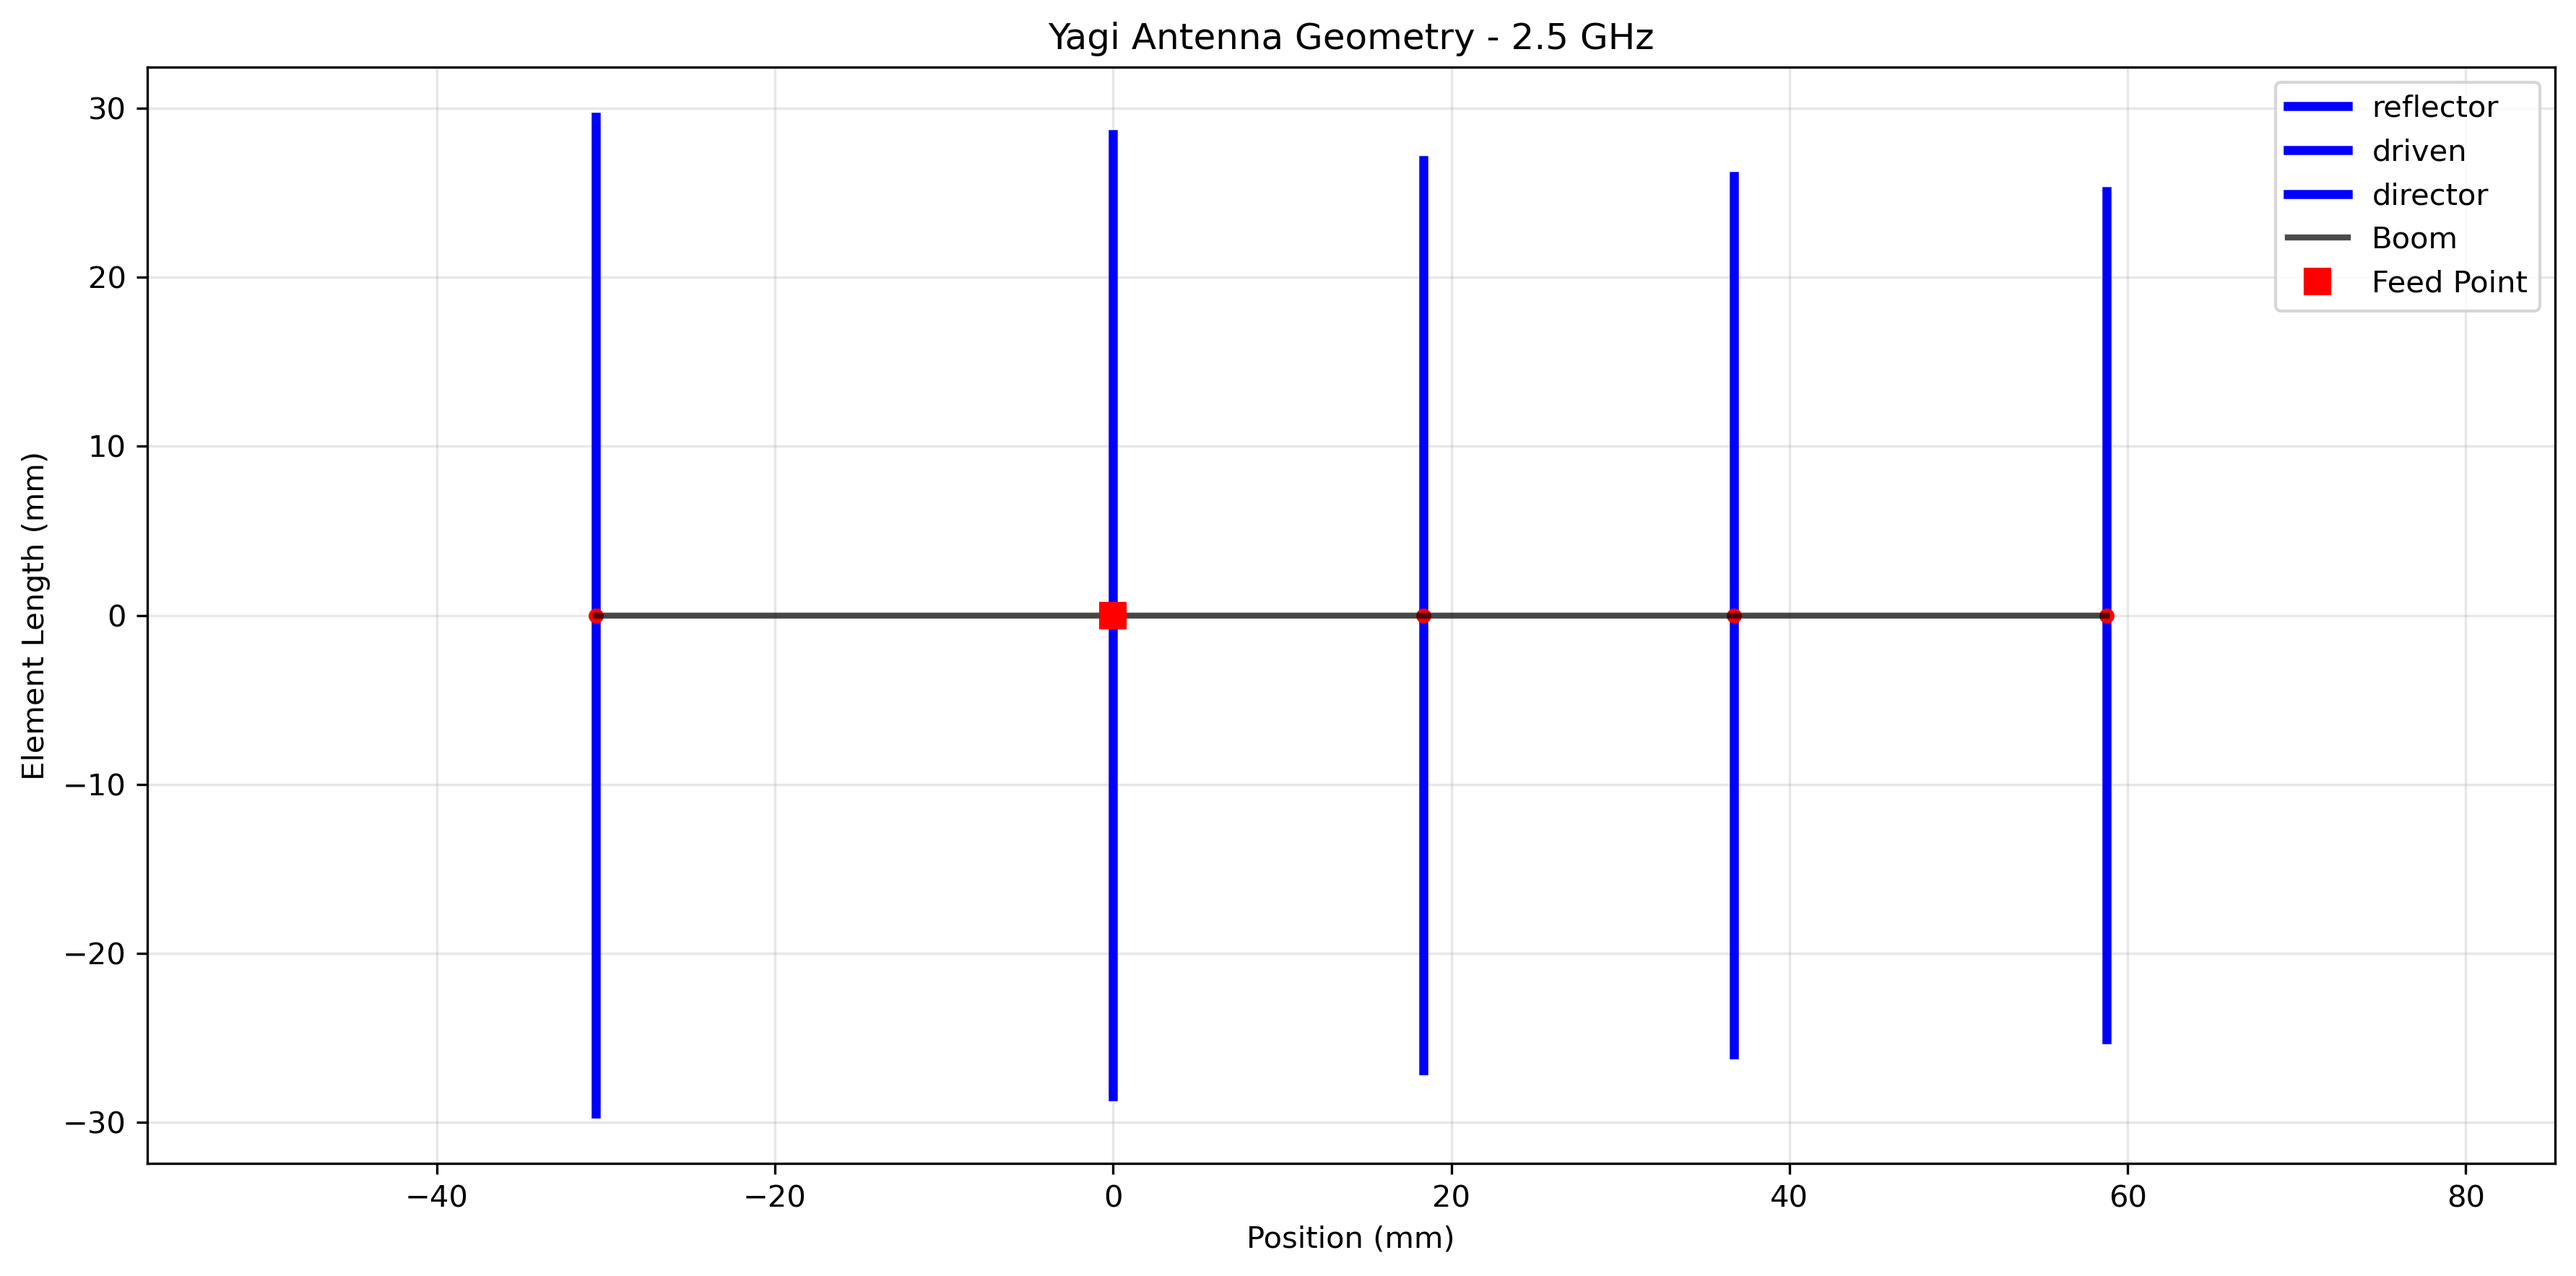
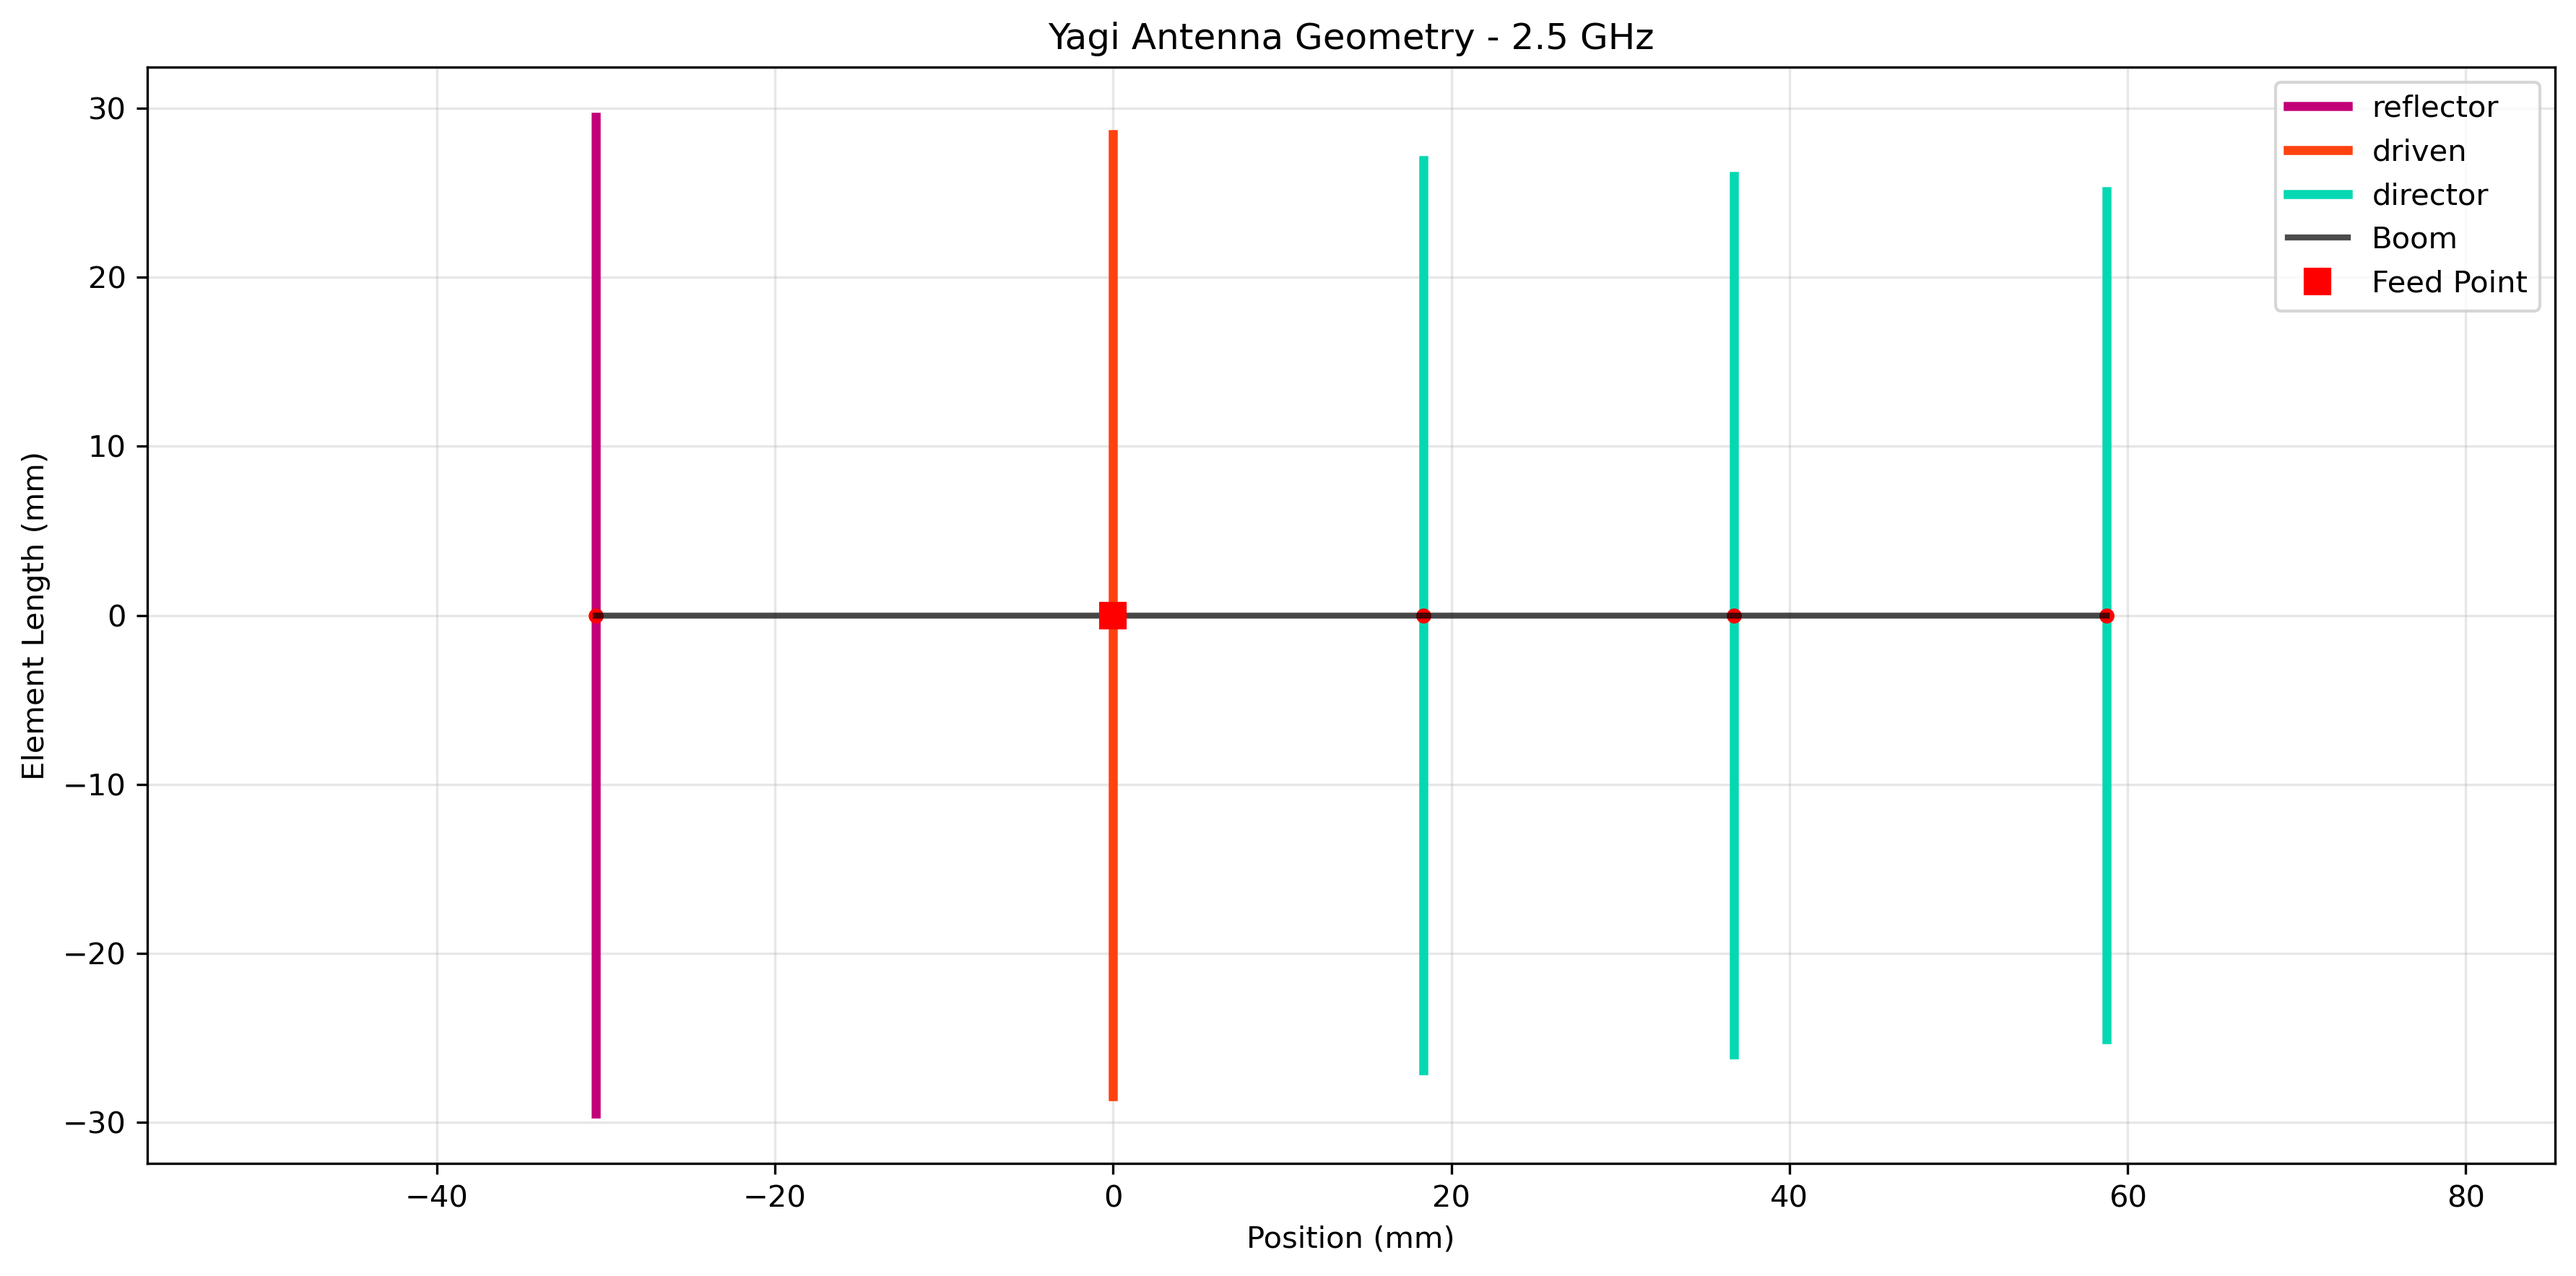
Update plot colors with magenta reflector for better element distinction

diff --git a/pi-rf-bridge/antenna/rf_design/yagi_design.py b/pi-rf-bridge/antenna/rf_design/yagi_design.py
@@ -76,13 +76,23 @@ def plot_yagi_geometry(design: YagiDesign, save_path: str = None):
     # Calculate physical dimensions in millimeters for readability
     wavelength_mm = wavelength_m(design.frequency_hz) * 1000
     
+    # Element colors using XKCD survey colors
+    element_colors = {
+        'driven': 'xkcd:orangered',
+        'reflector': 'xkcd:magenta', 
+        'director': 'xkcd:aquamarine'
+    }
+    
     for element in design.elements:
         pos_mm = element.position_lambda * wavelength_mm
         length_mm = element.length_lambda * wavelength_mm
         
+        # Get color for this element type
+        color = element_colors.get(element.element_type, 'blue')
+        
         # Draw element as horizontal line
         ax.plot([pos_mm, pos_mm], [-length_mm/2, length_mm/2], 
-                'b-', linewidth=3, label=element.element_type if element.element_type not in ax.get_legend_handles_labels()[1] else "")
+                color=color, linewidth=3, label=element.element_type if element.element_type not in ax.get_legend_handles_labels()[1] else "")
         
         # Mark center point
         ax.plot(pos_mm, 0, 'ro', markersize=4)
